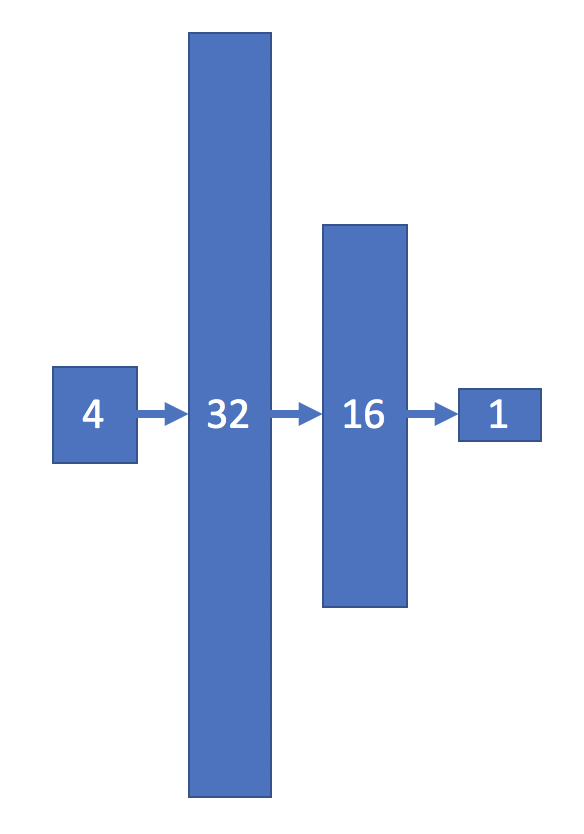
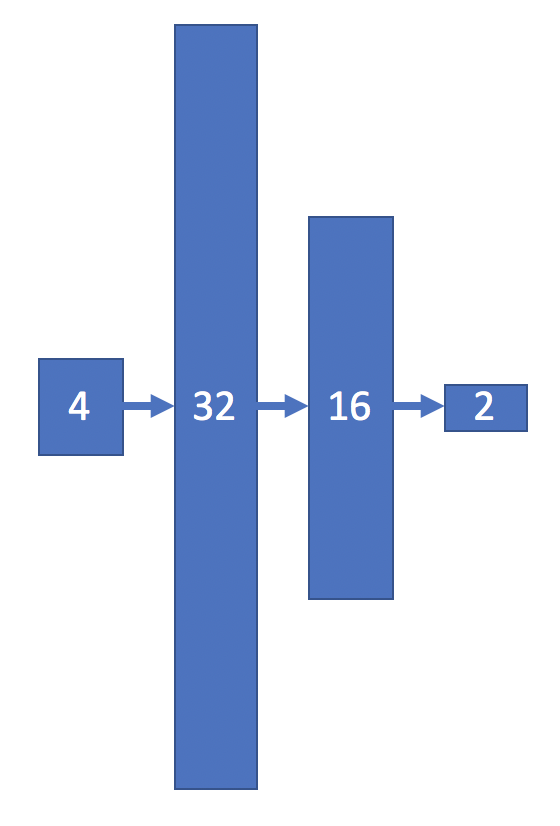
Replaced sigmoid with softmax

Changed region(s): [[0.0607, 0.0303, 0.9411, 0.9685]]

diff --git a/evolution/cart_pole/cart_pole_evolution.py b/evolution/cart_pole/cart_pole_evolution.py
@@ -9,8 +9,8 @@ class NN():
 		self.bias1 = np.random.normal(0,np.sqrt(2/(4+32)),(1,32))
 		self.FC2 = np.random.normal(0,np.sqrt(2/(32+16)),(32,16))
 		self.bias2 = np.random.normal(0,np.sqrt(2/(32+16)),(1,16))
-		self.FC3 = np.random.normal(0,np.sqrt(2/(16+1)),(16,1))
-		self.bias3 = np.random.normal(0,np.sqrt(2/(16+1)),(1,1))
+		self.FC3 = np.random.normal(0,np.sqrt(2/(16+2)),(16,2))
+		self.bias3 = np.random.normal(0,np.sqrt(2/(16+2)),(1,2))
 
 
 	def relu(self, X):
@@ -19,6 +19,9 @@ class NN():
 	def sigmoid(self, X):
 		return 1 / (1 + np.exp(-X)) 
 
+	def softmax(self, X):
+		return np.exp(X) / np.sum(np.exp(X))
+
 	def predict_proba(self, X):
 		X = np.array(X).reshape((-1,4))
 		X = X @ self.FC1 + self.bias1
@@ -26,12 +29,13 @@ class NN():
 		X = X @ self.FC2 + self.bias2
 		X = self.relu(X)
 		X = X @ self.FC3 + self.bias3
-		X = self.sigmoid(X)
+		X = self.softmax(X)
 		return X
 
 	def predict(self, X):
 		X = self.predict_proba(X)
-		return 1 * (X > 0.5)
+		return np.argmax(X, axis=1).reshape((-1, 1))
+
 
 	def mutate(self, stdev=0.03):
 		self.FC1 += np.random.normal(0, stdev, self.FC1.shape)

diff --git a/evolution/readme.md b/evolution/readme.md
@@ -3,10 +3,9 @@
 ## Model
 
 A simple neural network was used to solve this problem (Figure 1). It is fully connected (with bias) 
-and uses the ReLU activation function throughout, except for the output layer which uses sigmoid. 
+and uses the ReLU activation function throughout, except for the output layer which uses softmax. 
 The input size of 4 corresponds to the 4 observations CartPole produces at each step. 
-CartPole has two possible actions, so network output less than 0.5 was interpreted as action 0 (move left) 
-and output greater than or eqal to 0.5 was interpreted as action 1 (move right).
+CartPole has two possible actions, which were one-hot encoded as the model's output.
 
 <p align="center">
   <img src="https://raw.githubusercontent.com/ConorLazarou/ai-gym/master/evolution/cart_pole/examples/network.png" width="200">
